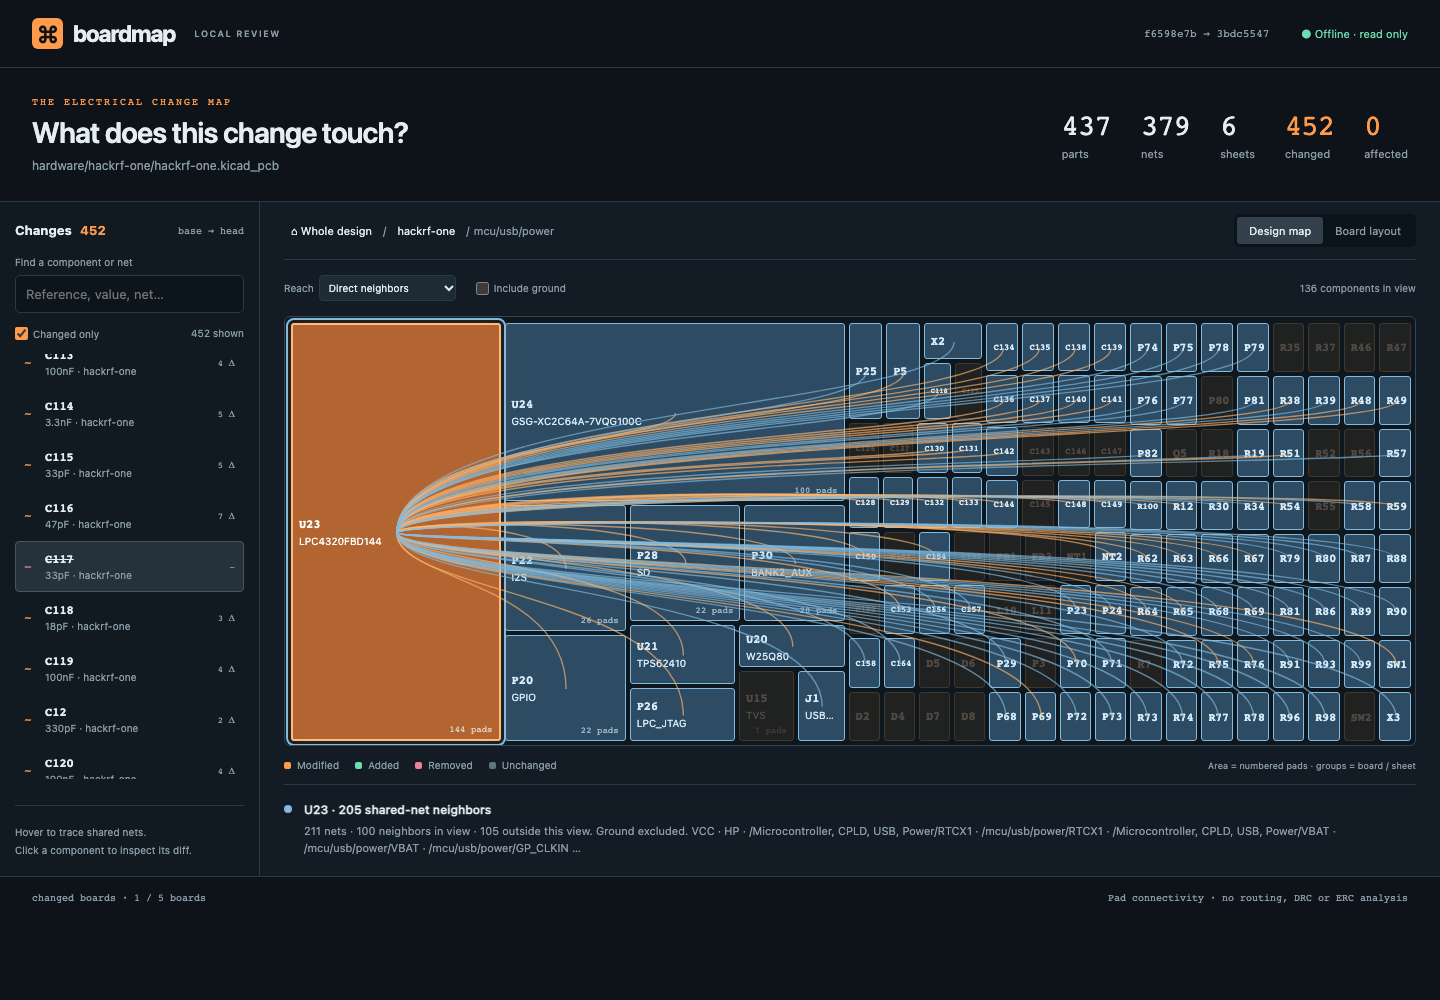
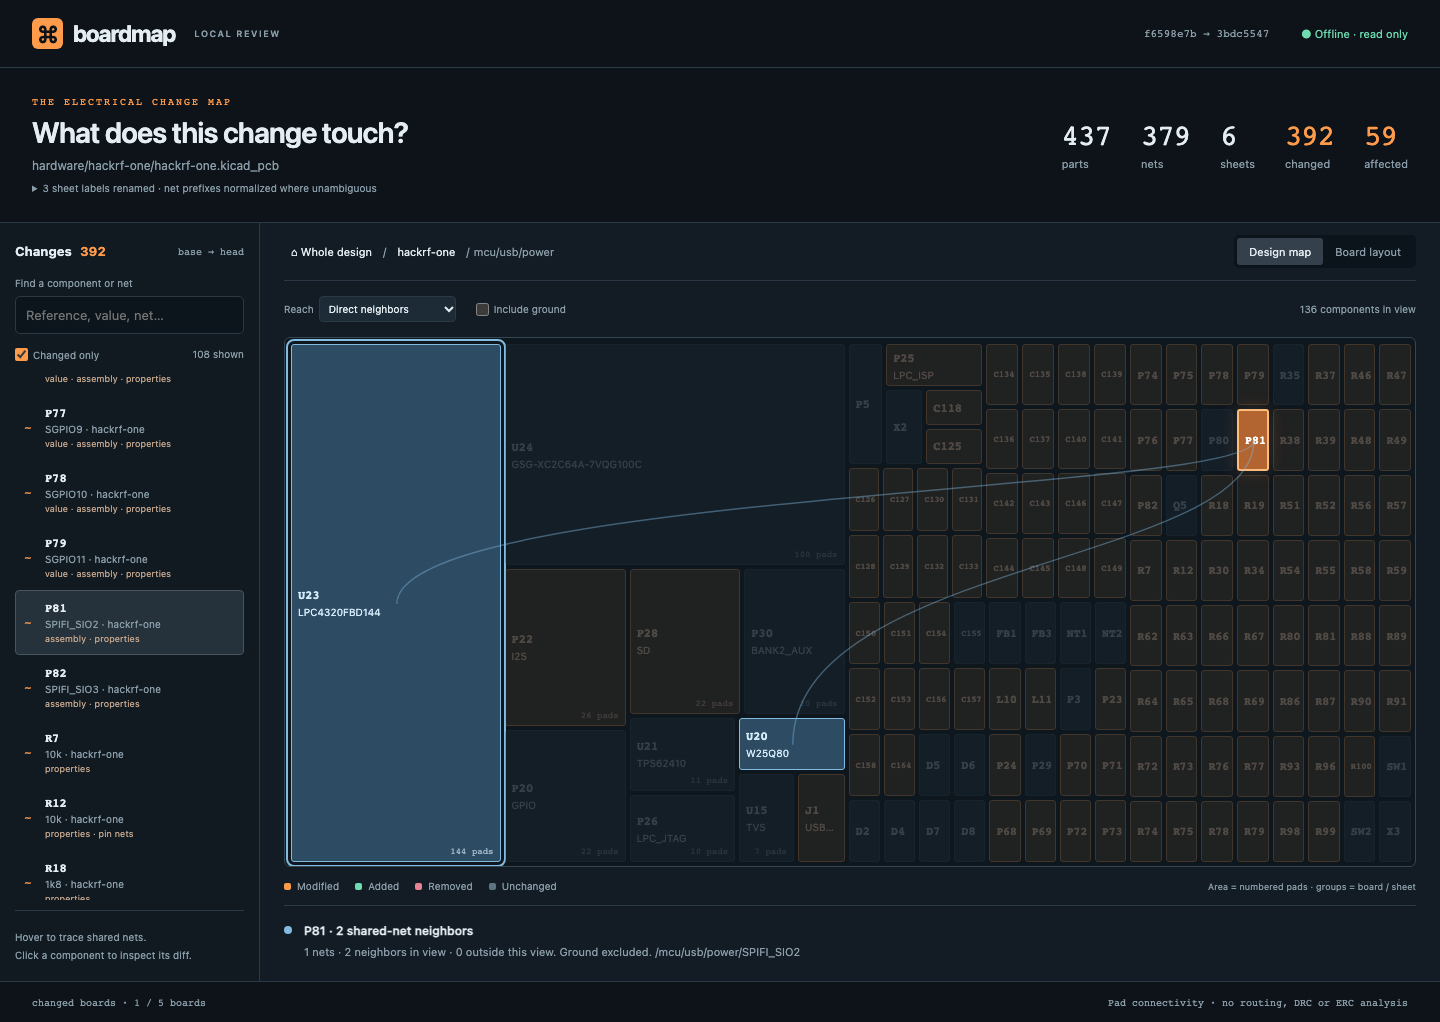
Capture the real rewire and assert displayed before and after values

diff --git a/web/app.js b/web/app.js
@@ -529,7 +529,7 @@ function openDiff(p) {
         )) {
           if (JSON.stringify(a.get(number)) !== JSON.stringify(b.get(number)))
             row(
-              `Pad ${number || "mechanical"} geometry`,
+              `Pad ${number || "mechanical"} local geometry`,
               describe(a.get(number)),
               describe(b.get(number)),
             );

diff --git a/README.md b/README.md
@@ -33,7 +33,7 @@ By default, it includes every component in boards whose files changed. If no boa
 - Hover or keyboard-focus any part, in the map or sidebar, to trace shared-net neighbors. Both revisions contribute connections, so disconnecting or removing a part still shows its former neighbors. Power nets connect a regulator to every part on that rail. Ground is excluded by name by default and can be included.
 - Direct reach follows one net hop. Transitive reach walks through components and their nets. This is structural adjacency across both revisions, not circuit simulation or a claim that signals pass through an IC. Large transitive results can span most of a board.
 - Click a sheet to zoom, use breadcrumbs to return, or switch to component centers in Board layout. Each board has its own chooser when a repository contains multiple designs.
-- Click a part for its semantic diff and local pad regions. Press Escape or Back to map to return. Search by reference, value, footprint, or net. The sidebar follows the current board or sheet, sorts references numerically and names changed fields. Changed only filter does not hide unchanged context in the map.
+- Click a part for its semantic diff and local pad regions. Press Escape or Back to map to return. Search by reference, value, footprint, or net. The sidebar follows the current board or sheet, sorts references numerically and names changed fields. The Changed only filter does not hide unchanged context in the map.
 
 The stats count head parts and nets, sheet groups across both revisions, and changed components including removals. Affected means unchanged direct neighbors of changed parts, excluding ground, across either revision. It is independent of the current hover and reach controls. Stable sheet UUIDs identify label renames. Boardmap reports these separately and normalizes old hierarchical net prefixes only when the mapping is unambiguous and does not merge distinct historical nets. Real rewires remain in the pin diff. Footprint rotations compare pad angles relative to the footprint, so rotation alone does not create a pad dump.
 
@@ -54,7 +54,7 @@ Each command fetches two pinned commits into a per-user cache, without a checkou
 
 | Source PR | Comparison | Head parts | Changed | Unchanged affected |
 | --- | --- | ---: | ---: | ---: |
-| [HackRF #1411, HackRF One r10](https://github.com/greatscottgadgets/hackrf/pull/1411) | `f6598e7b..3bdc5547`, changed board | 437 | 390 | 61 |
+| [HackRF #1411, HackRF One r10](https://github.com/greatscottgadgets/hackrf/pull/1411) | `f6598e7b..3bdc5547`, changed board | 437 | 392 | 59 |
 | [Corne #237, v4.1.0](https://github.com/foostan/crkbd/pull/237) | `a935f345..eaf6e072`, cherry board | 180 | 18 | 102 |
 
 The Corne PR changes both cherry and chocolate boards. Without `--board`, its report includes 360 head parts and 30 changed parts. The demo script selects cherry for a smaller review. See [all captures](docs/media), including HackRF and mobile layouts. Captures are actual Chromium runs, not mockups.
@@ -77,7 +77,7 @@ This version reads `.kicad_pcb` footprint and pad data, including the s-expressi
 - Connectivity comes from board pad net assignments. A schematic-only change, including a value or net change not yet pushed to the PCB, is not analyzed. Schematic hierarchy comes from footprint sheet metadata; absent metadata falls into Root sheet. Full hierarchical schematic parsing is future work.
 - The diff compares values, footprint names, fields such as MPN, position, rotation, side, sheet, numbered pin-net assignments, and stored pad geometry, drills, and layers. Copper tracks, vias, zones, graphics, design rules and other manufacturing settings are outside this comparison. A copper-only edit can report zero changed components.
 - The local regions draw basic pad shapes, drill holes and neighboring footprints, not full silkscreen or copper artwork. Nonstandard shapes are labeled approximate. The board view shows footprint centers and can overlap densely packed parts. Use the map or sidebar to select those parts.
-- Components match by board path and reference, with UUIDs for duplicate references. Reference renames or moving parts between board files appear as removal/addition. Net names are scoped per board. Ground suppression recognizes common names such as GND, AGND, DGND, GNDR, GNDL, VSS and their sheet-qualified variants; other return names require the ground toggle or will be included.
+- Components match by board path and reference, with UUIDs for duplicate references. Reference renames or moving parts between board files appear as removal/addition. Net names are scoped per board. Ground suppression recognizes common names such as GND, AGND, DGND, GNDR, GNDL, VSS and their sheet-qualified variants; other return names remain included. This is a name-based filter.
 - DRC/ERC delta and a GitHub Action that posts a PR summary are future work. There is no release or npm registry publication.
 
 ## Development
